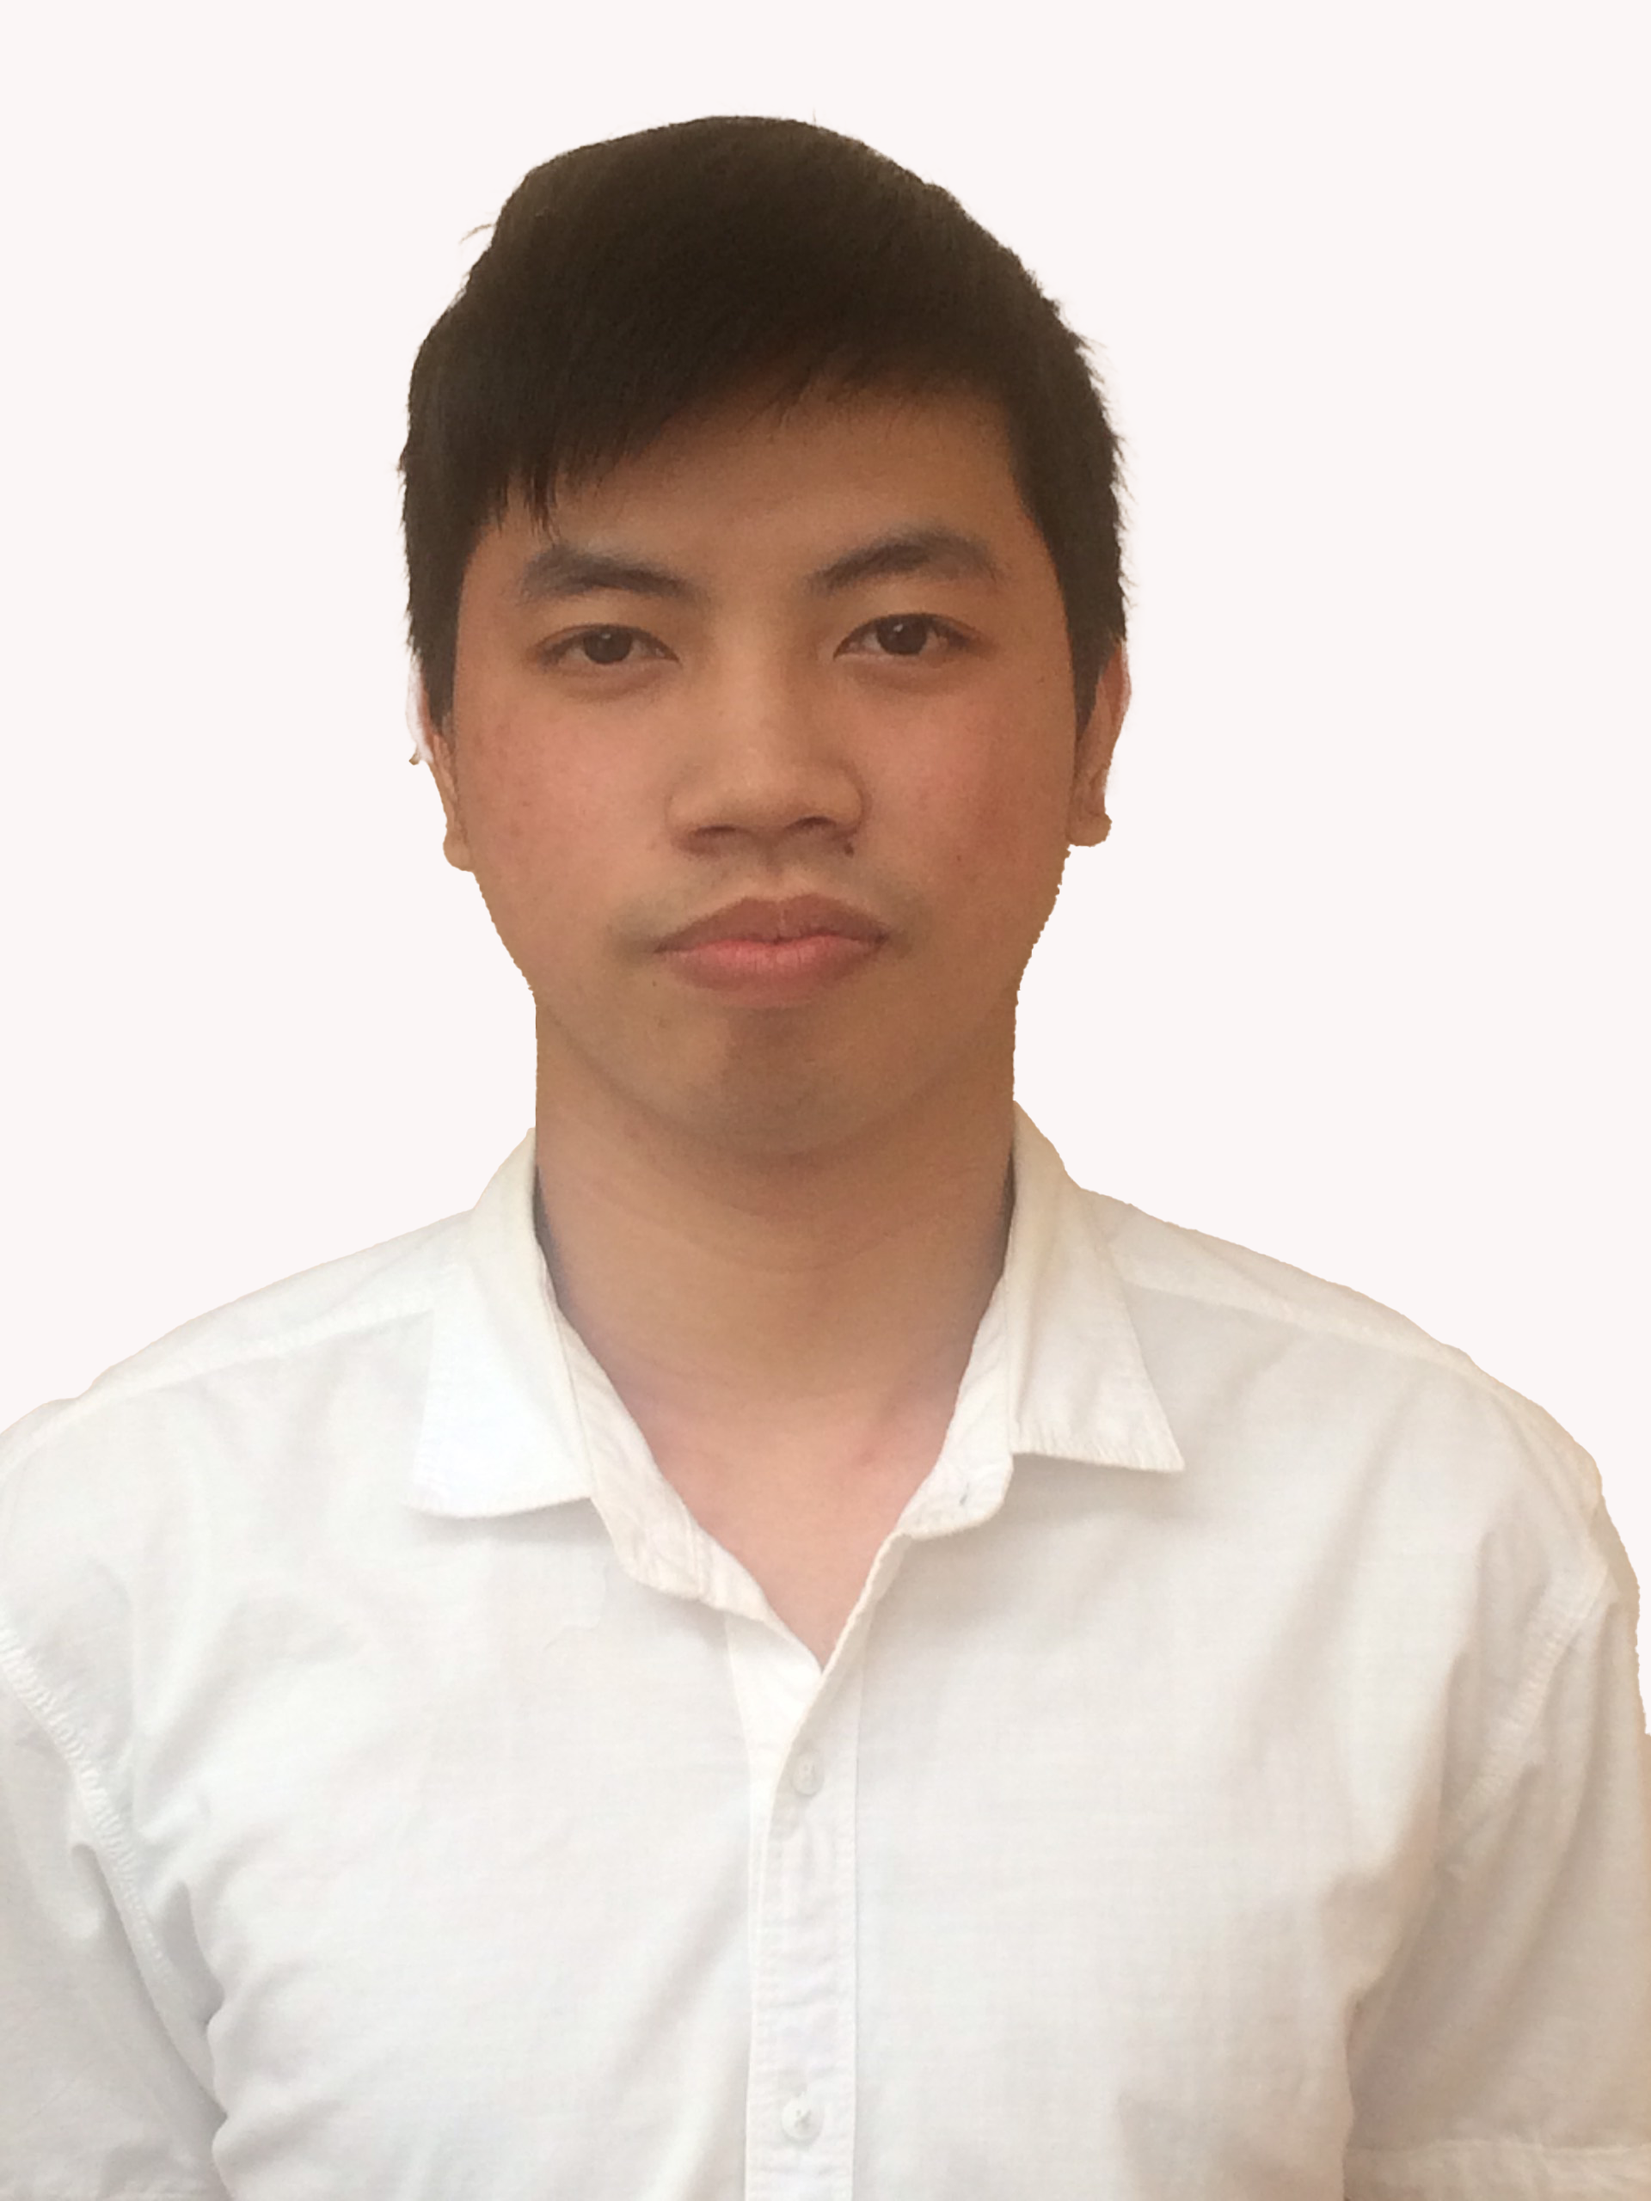
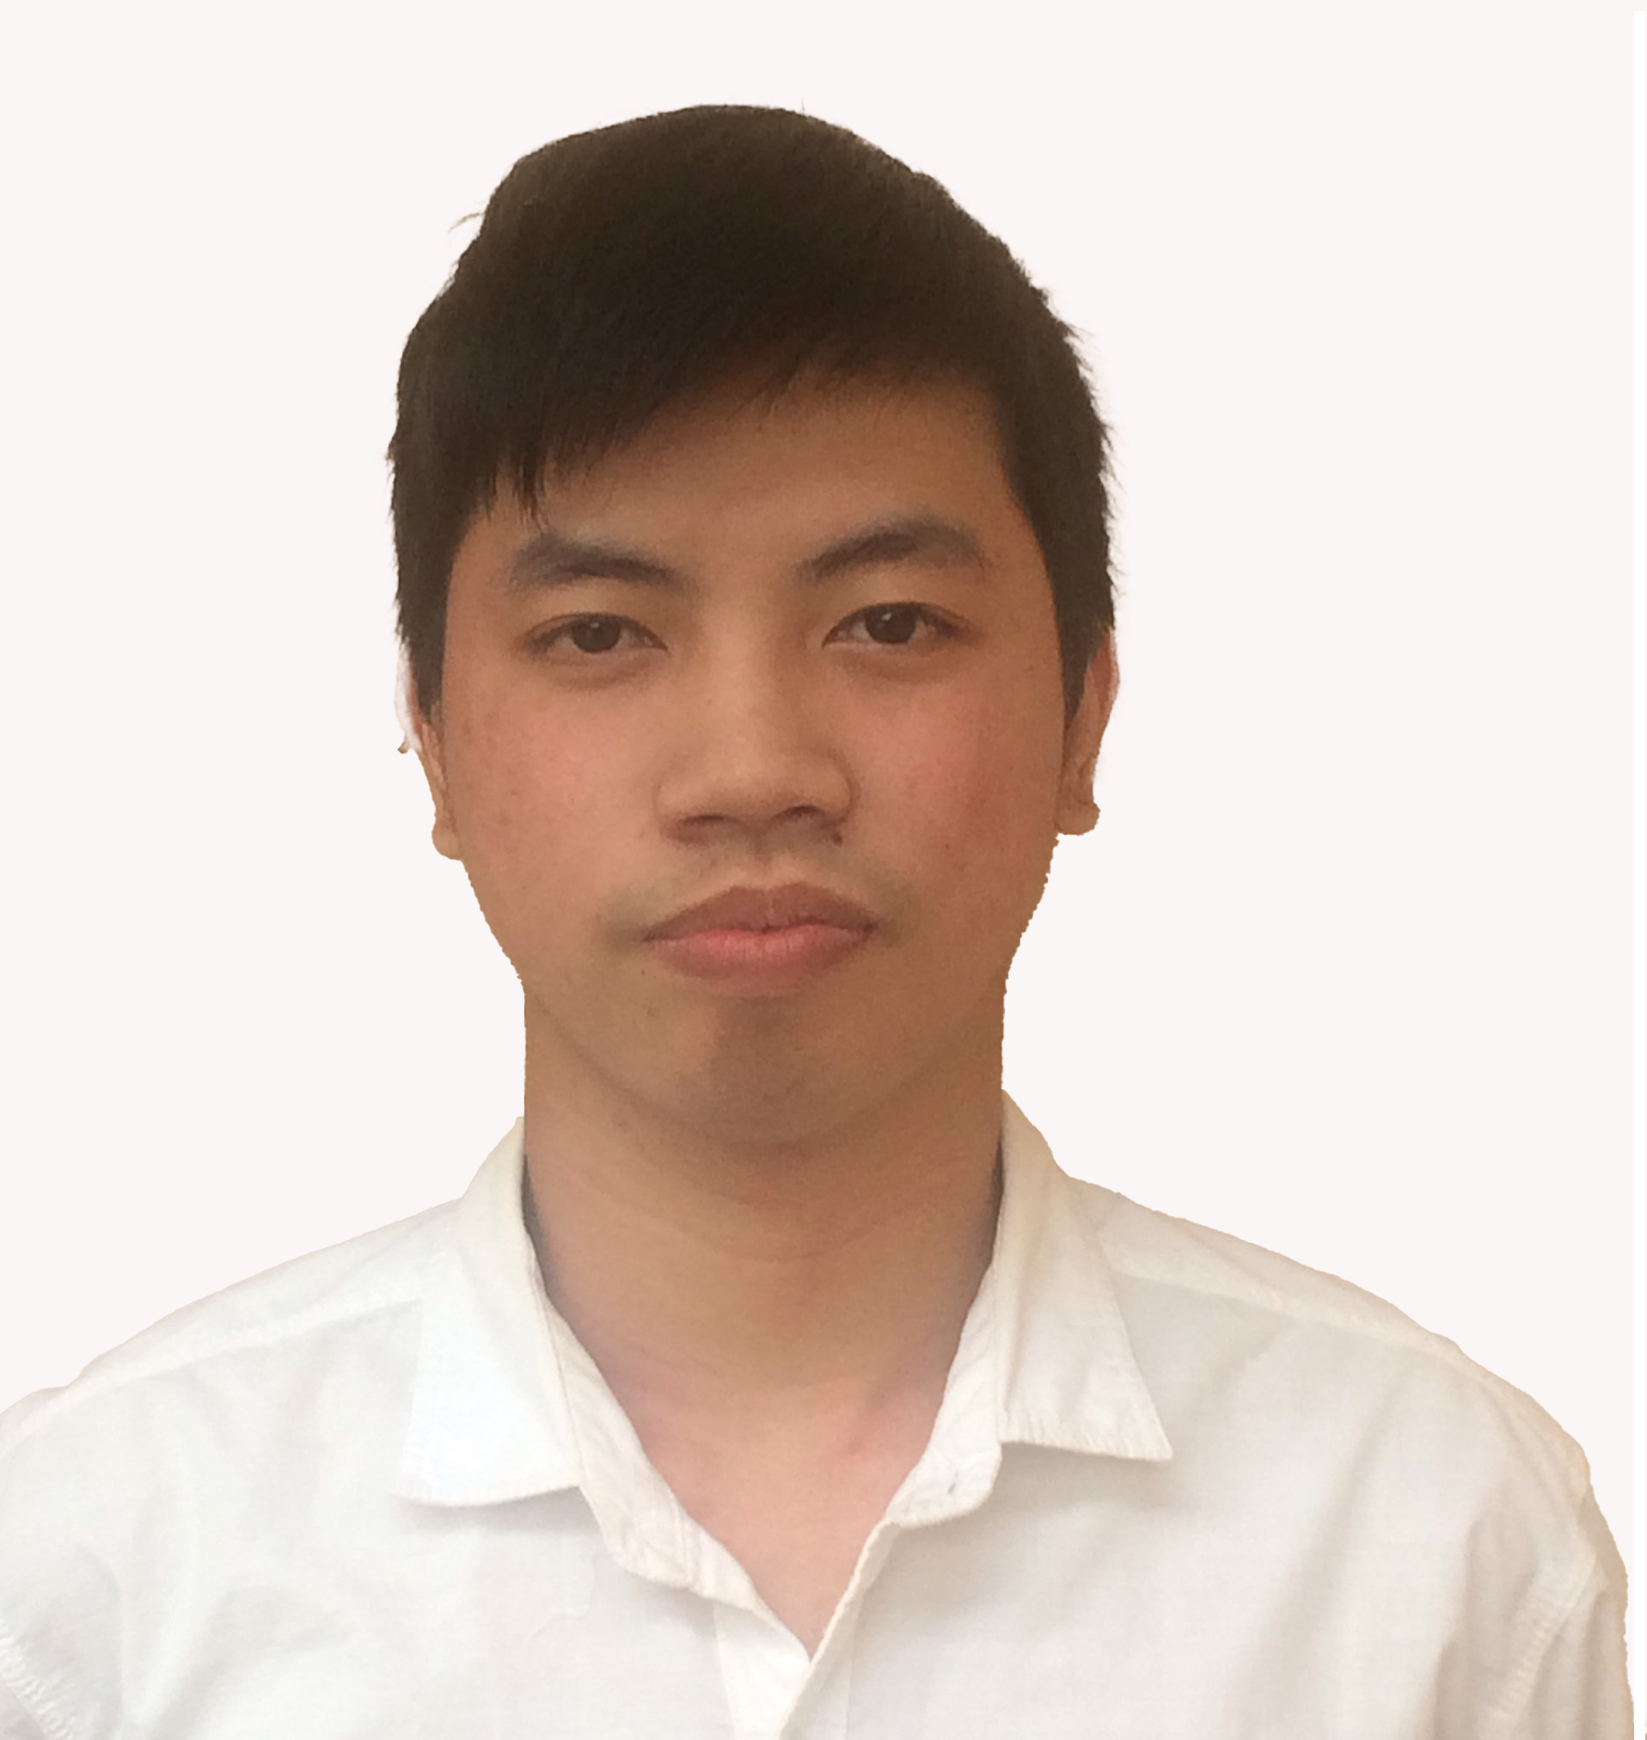
resize avt

diff --git a/src/components/IntroCard.jsx b/src/components/IntroCard.jsx
@@ -1,5 +1,5 @@
 import React from "react";
-import avatar from "./../assets/avatar.jpg";
+import avatar from "./../assets/avatar.png";
 
 export default function IntroCard({ changeTheme, theme }) {
   return (
